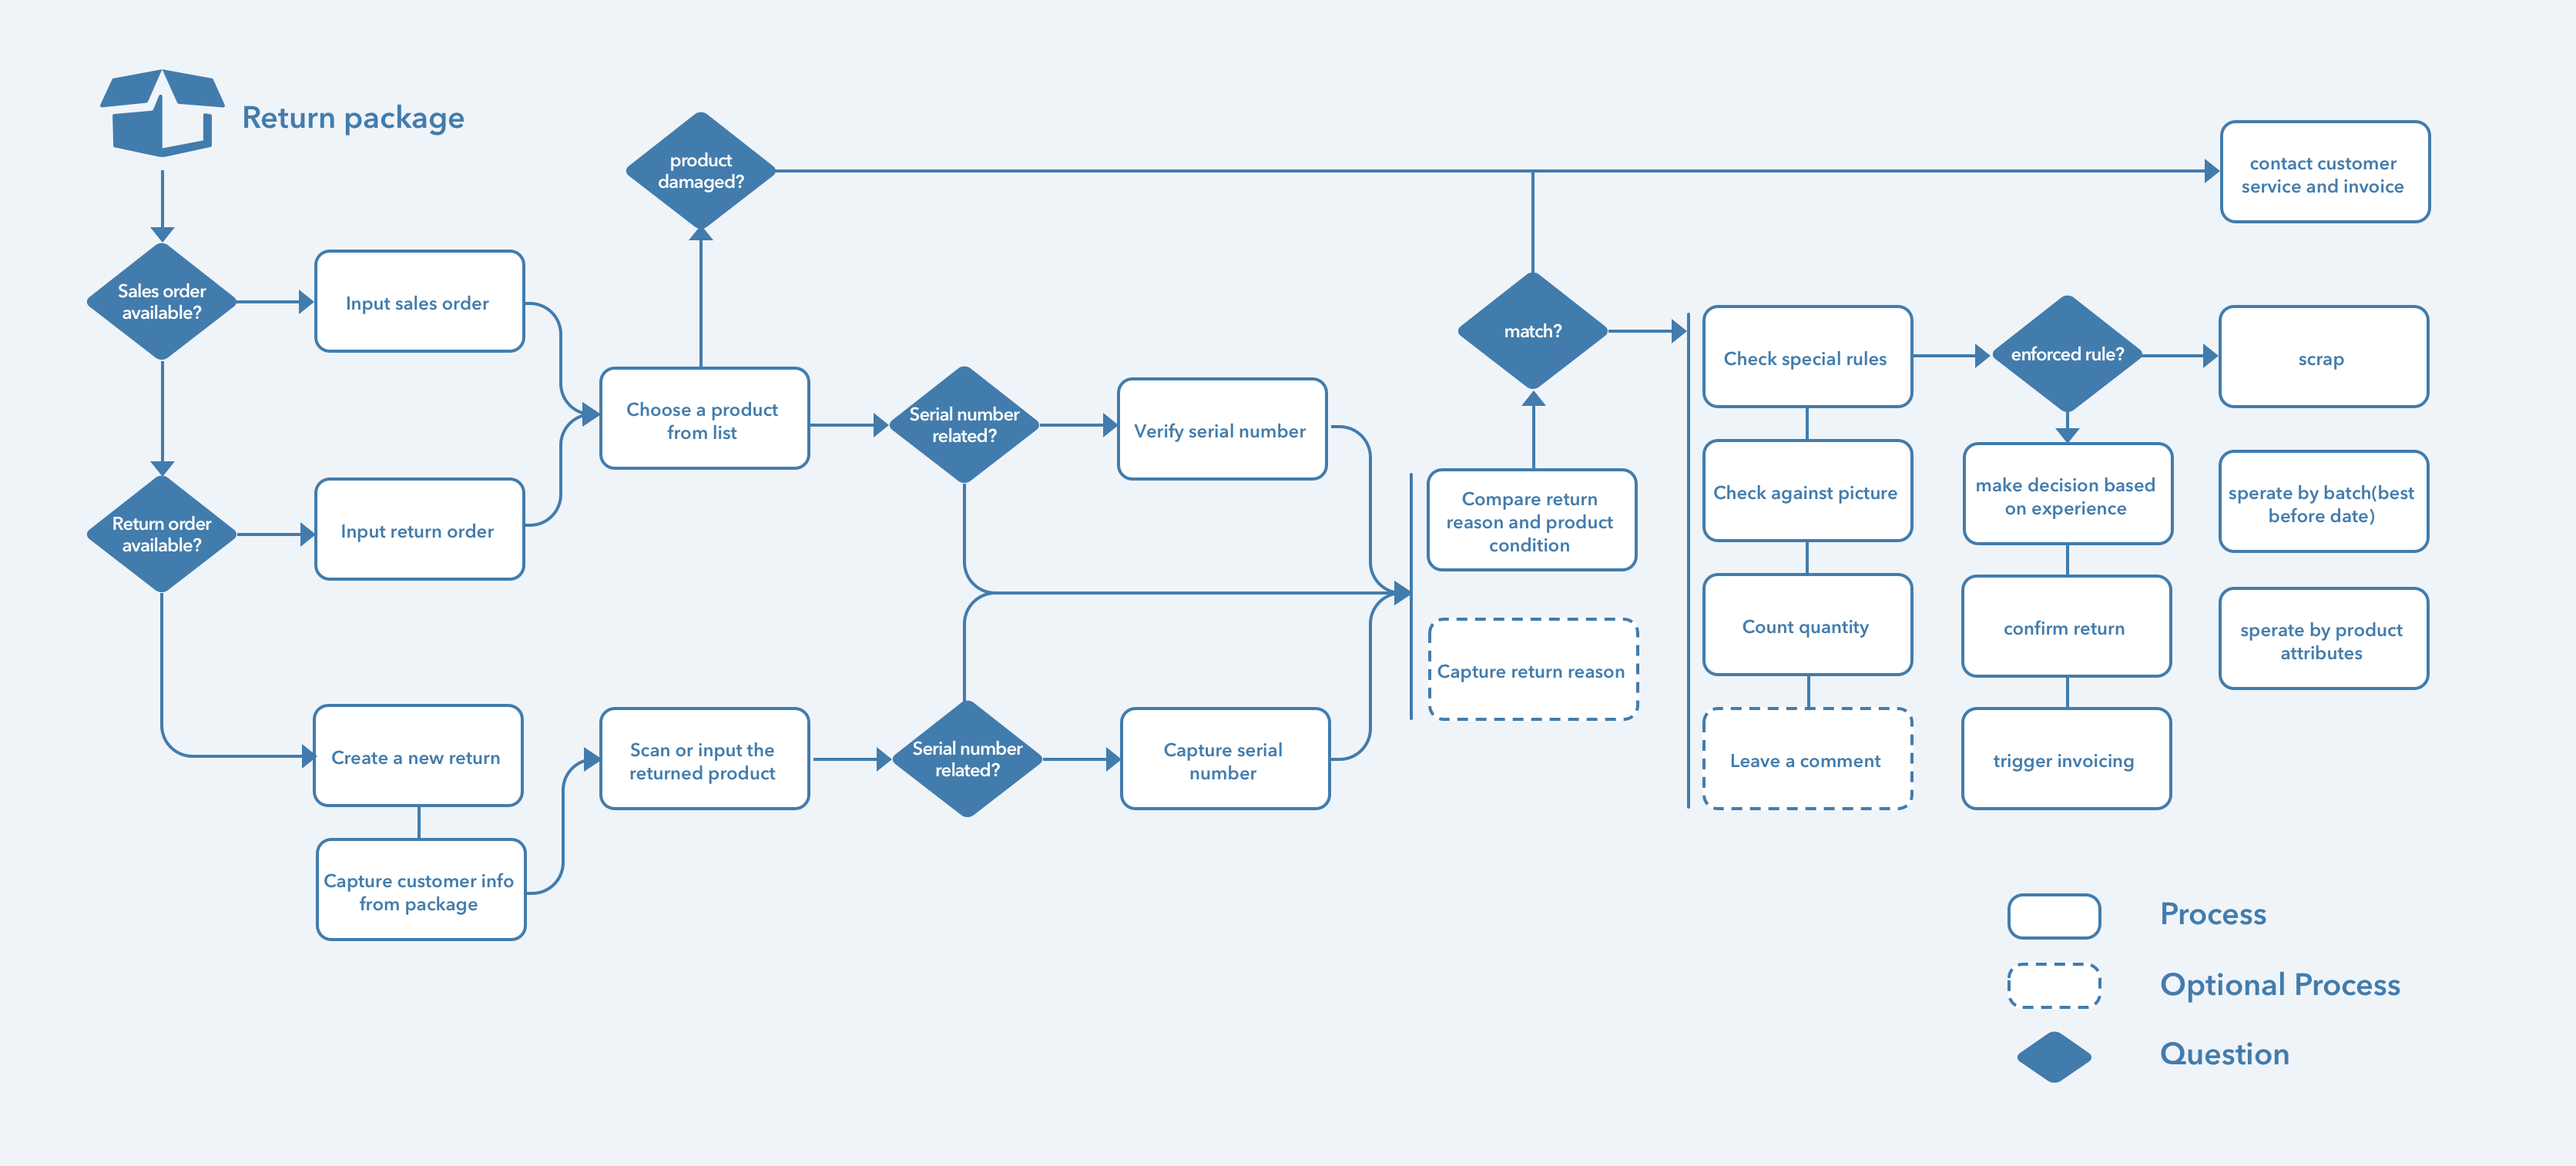
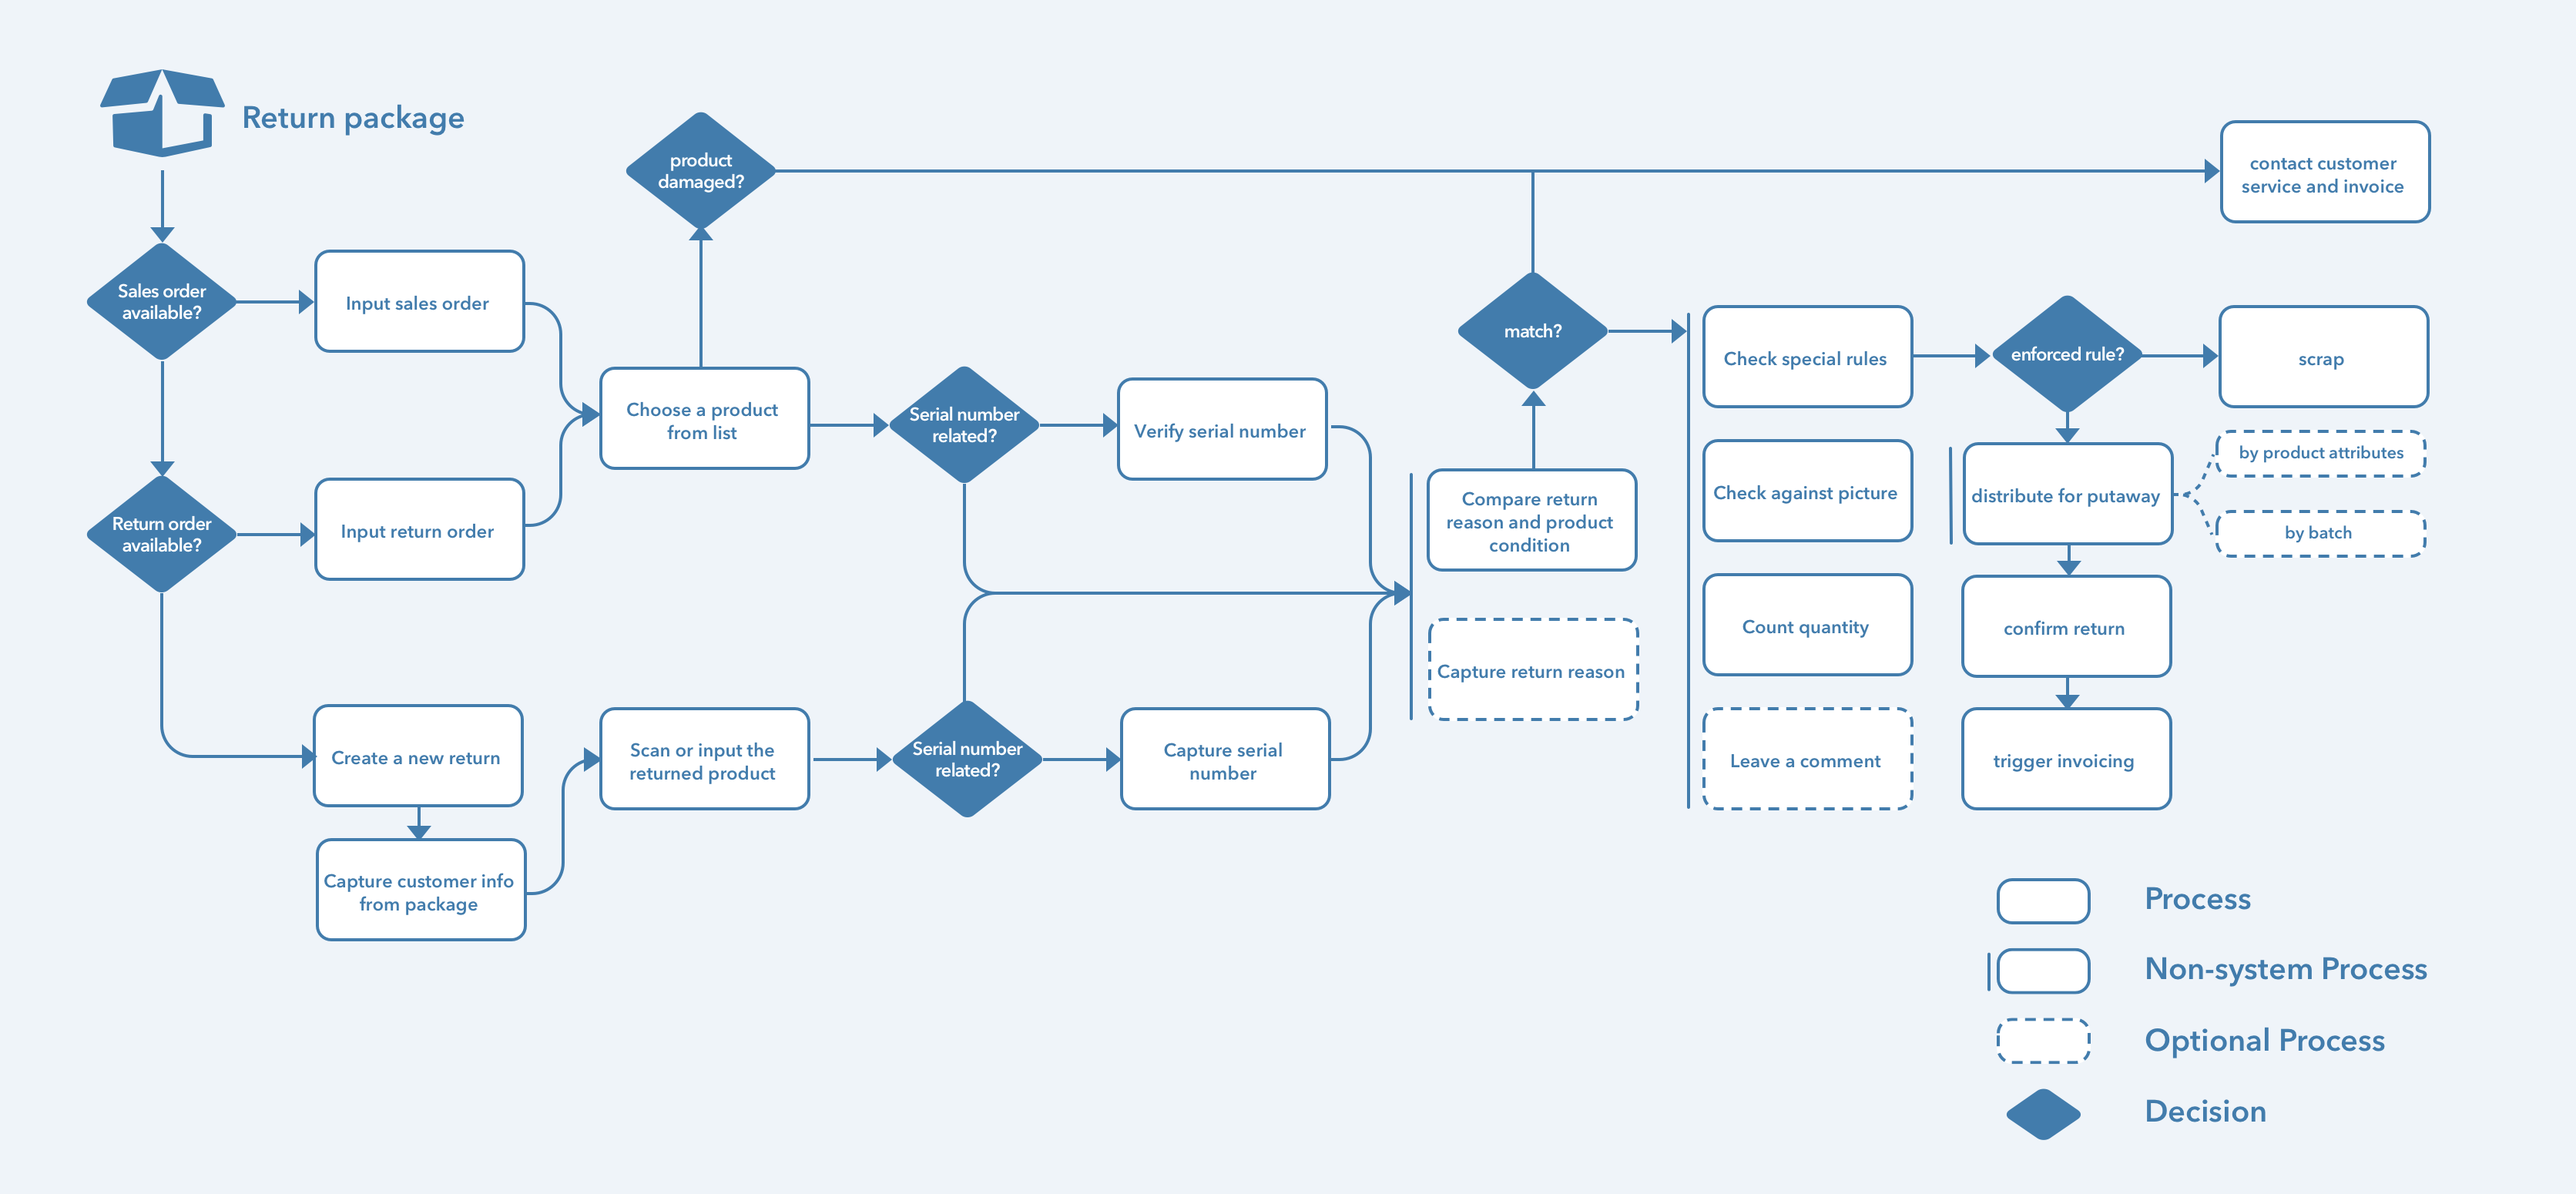
upload

diff --git a/index.html b/index.html
@@ -45,13 +45,13 @@
 			<div class="collapse navbar-collapse" id="navbarSupportedContent">
 				<ul class="navbar-nav">
 					<li class="nav-item">
-						<a class="js-scroll-trigger" href="#about">About</a>
-					</li>
-					<li class="nav-item">
 						<a class="js-scroll-trigger" href="#ux">UX projects</a>
 					</li>
 					<li class="nav-item">
 						<a class="js-scroll-trigger" href="#hci">HCI</a>
+					</li>
+					<li class="nav-item">
+						<a class="js-scroll-trigger" href="#about">About</a>
 					</li>
 					<li class="nav-item">
 						<a target="_blank" href="Puhe Liang.pdf">Resume</a>
@@ -73,49 +73,6 @@
 				</div>
 	</nav>
 	<div class="container-fluid p-0">
-		<section class="resume-section p-3 d-flex flex-column" id="about">
-			<div class="my-auto">
-				<h2 class="mb-4">Hello.</h2>
-				<div class="mb-5 about-text">
-					<p>I am a master student in Human Computer Interaction at University of Michigan, graduating in 2019. I am passionate about <strong>multimodal interactive systems</strong>. I design and prototype tools to engage communication between virtual and physcial world: </p>
-					<div class="row mx-4 mt-3 mb-3 pt-2 pb-2">
-						<div class="col-md"><a href="chattie.html" target="_blank"><img class="icon_work" src="img/icon_voice.png"></img>
-							<p>Interaction with voice assistant</p></a>
-						</div>
-						<div class="col-md"><a href="mid-air.html" target="_blank"><img class="icon_work" src="img/icon_3d.png"></img>
-							<p>Gesture interaction with mid-air 3D object</p></a>
-						</div>
-						<div class="col-md"><a href="handsfree.html" target="_blank"><img class="icon_work" src="img/icon_gaze.png"></img>
-							<p>&nbsp Gaze controlled robot</p></a>
-						</div>
-						<div class="col-md"><a href="https://medium.com/@LiangRR/lessons-in-using-bare-conductive-c1f79cb45b7b.html" target="_blank"><img class="icon_work" src="img/icon_space.png"></img>
-							<p>Physical interaction with conductive paint</p></a>
-						</div>
-					</div>
-					<p>People today are spending increasing amount of time with either reading or building screens. I am interested in understanding <strong> social impact </strong> made by technology. I do research on:</p>
-					<p><strong class="bullet">&bull;</strong> Bowser extension to address abusive behavior on Twitter (with <a class="link-prof" href="http://eegilbert.org/" target="_blank">Eric Gilbert</a>)<br>
-						<strong class="bullet">&bull;</strong> Uncertainty information visualization (with <a class="link-prof" href="http://www.mjskay.com/" target="_blank">Matthew Kay</a>)<br>
-						<strong class="bullet">&bull;</strong> Accessible design in autonomous vehicle for people with vision impairment (with <a class="link-prof" href="http://robinbrewer.com/" target="_blank">Robin Brewer</a>)
-					</p>
-					<p>My work has been accepted by:</p>
-					<div class="row mx-4 mt-1 mb-1 px-4">
-						<div class="col-sm"><a href="https://dl.acm.org/citation.cfm?id=3272991" target="_blank"><img class="icon_work" src="img/conference01.png"></img></a>
-						</div>
-						<div class="col-sm"><a href="handsfree.html" target="_blank"><img class="icon_work" src="img/conference02.png"></img></a>
-						</div>
-						<div class="col-sm"><a href="chattie.html" target="_blank"><img class="icon_work" src="img/conference03.png"></img></a>
-						</div>
-					</div>
-					<p>BTW, I am an enthusiast in <strong>web programming</strong>! I used to develop enterprise web application in my first job at SAP. Now I am attracted by all kinds of JS magic, to craft interactive animations, make web pages fun to read!
-					</p>
-					<p>Hope you enjoy exploring my website!</p>
-
-				</div>
-
-			</div>
-
-		</section>
-
 		<section id="ux">
 			<div class="project-block">
 				<a href="chattie.html">
@@ -215,6 +172,48 @@
 			</div>
 		</section>
 
+		<section class="resume-section p-3 d-flex flex-column" id="about">
+			<div class="my-auto">
+				<h2 class="mb-4">Hello.</h2>
+				<div class="mb-5 about-text">
+					<p>I am a master student in Human Computer Interaction at University of Michigan, graduating in 2019. I am passionate about <strong>multimodal interactive systems</strong>. I design and prototype tools to engage communication between virtual and physcial world: </p>
+					<div class="row mx-4 mt-3 mb-3 pt-2 pb-2">
+						<div class="col-md"><a href="chattie.html" target="_blank"><img class="icon_work" src="img/icon_voice.png"></img>
+							<p>Interaction with voice assistant</p></a>
+						</div>
+						<div class="col-md"><a href="mid-air.html" target="_blank"><img class="icon_work" src="img/icon_3d.png"></img>
+							<p>Gesture interaction with mid-air 3D object</p></a>
+						</div>
+						<div class="col-md"><a href="handsfree.html" target="_blank"><img class="icon_work" src="img/icon_gaze.png"></img>
+							<p>&nbsp Gaze controlled robot</p></a>
+						</div>
+						<div class="col-md"><a href="https://medium.com/@LiangRR/lessons-in-using-bare-conductive-c1f79cb45b7b.html" target="_blank"><img class="icon_work" src="img/icon_space.png"></img>
+							<p>Physical interaction with conductive paint</p></a>
+						</div>
+					</div>
+					<p>People today are spending increasing amount of time with either reading or building screens. I am curious of the <strong> social impact </strong> made by technology. I do research on:</p>
+					<p><strong class="bullet">&bull;</strong> Bowser extension to address abusive behavior on Twitter (with <a class="link-prof" href="http://eegilbert.org/" target="_blank">Eric Gilbert</a>)<br>
+						<strong class="bullet">&bull;</strong> Uncertainty information visualization (with <a class="link-prof" href="http://www.mjskay.com/" target="_blank">Matthew Kay</a>)<br>
+						<strong class="bullet">&bull;</strong> Accessible design in autonomous vehicle for people with vision impairment (with <a class="link-prof" href="http://robinbrewer.com/" target="_blank">Robin Brewer</a>)
+					</p>
+					<p>My work has been accepted by:</p>
+					<div class="row mx-4 mt-1 mb-1 px-4">
+						<div class="col-sm"><a href="https://dl.acm.org/citation.cfm?id=3272991" target="_blank"><img class="icon_work" src="img/conference01.png"></img></a>
+						</div>
+						<div class="col-sm"><a href="handsfree.html" target="_blank"><img class="icon_work" src="img/conference02.png"></img></a>
+						</div>
+						<div class="col-sm"><a href="chattie.html" target="_blank"><img class="icon_work" src="img/conference03.png"></img></a>
+						</div>
+					</div>
+					<p>BTW, I am an enthusiast in <strong>web programming</strong>! I used to develop enterprise web application in my first job at SAP. Now I am attracted by all kinds of JS magic, to craft interactive animations, make web pages fun to read!
+					</p>
+					<p>Hope you enjoy exploring my website!</p>
+
+				</div>
+
+			</div>
+
+		</section>
 
 	</div>
 </body>

diff --git a/return.html b/return.html
@@ -124,14 +124,20 @@
   <div id="pains" class="blog-content-contianer w-container pr-1">
     <h1 class="mb-5">How might the system reduce user operations and errors?</h1>
     <div class="blog-content w-clearfix">
-      <div class="blog-content-normal"><a class="blog-subtitle">1. Reference number is not unified</a>
+      <div class="blog-content-normal"><a class="blog-subtitle">1. Reference number can be in different systems. </a>
       <img class="mt-5" src="img/return_pains_system.png"></img>
       </div>
     </div>
 
     <div class="blog-content w-clearfix">
-      <div class="blog-content-normal mb-5"><a class="blog-subtitle">2. Inspection process is experience-dependent</a>
-      <!-- <img class="mt-4" src="img/return_pains_system.png"></img> -->
+      <div class="blog-content-normal"><a class="blog-subtitle">2. Inspection process is experience-dependent.</a>
+      <img class="mt-4" src="img/return_pains_experience.png"></img>
+      </div>
+    </div>
+
+    <div class="blog-content w-clearfix">
+      <div class="blog-content-normal"><a class="blog-subtitle">3. Put-away strategy is separated from return operations.</a>
+      <img class="mt-4" src="img/return_pains_putaway.png"></img>
       </div>
     </div>
 

diff --git a/css/blog.css b/css/blog.css
@@ -142,7 +142,7 @@
   font-size: 18px;
   line-height: 26px;
   font-style: italic;
-  font-weight: 300;
+  font-weight: 400;
   text-align: justify;
 }
 
